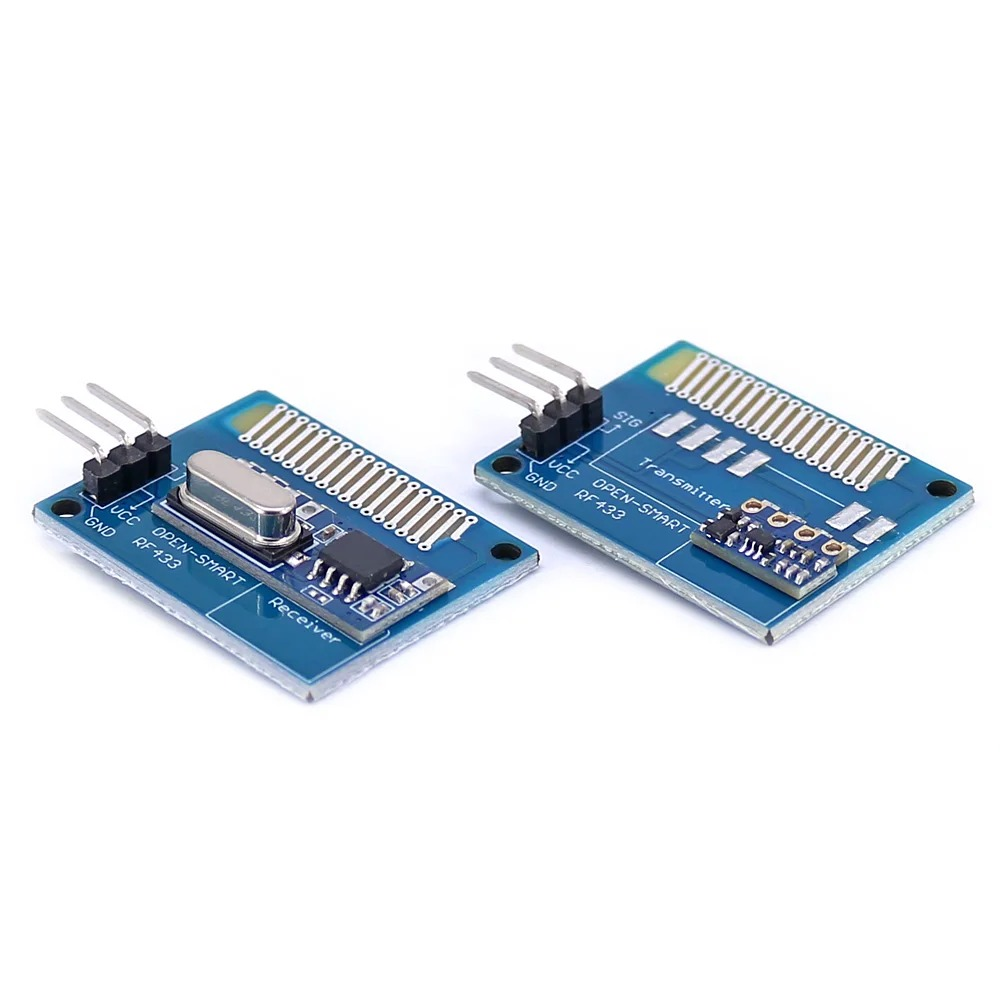
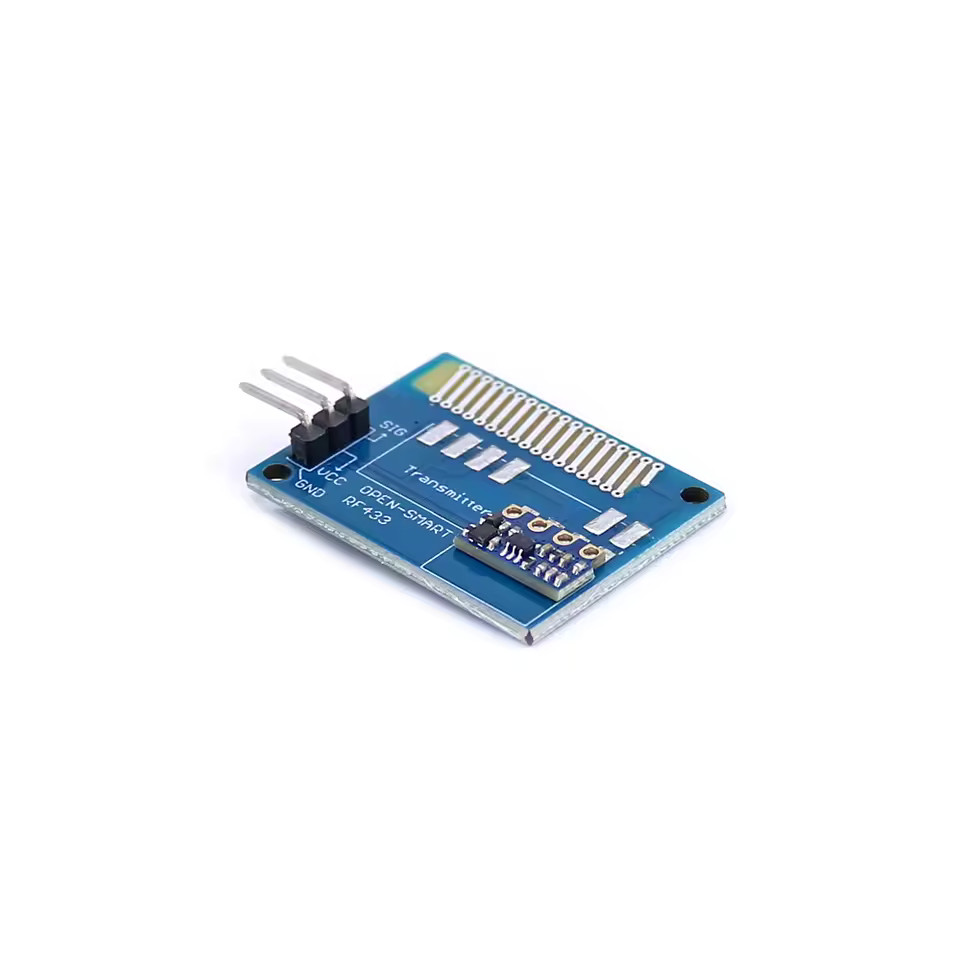
update hardware info to open-smart's transmitter only sku

Changed region(s): [[0.0312, 0.3438, 0.9688, 0.7188]]

diff --git a/docs/hardware/transmitter/index.md b/docs/hardware/transmitter/index.md
@@ -9,7 +9,4 @@ tags:
 
 Any 433 MHz transmitter that is compatible with ASK / OOK should work with OpenShock. Below are transmitters that have been tested to work.
 
-!!! warning "Ask for transmitters"
-    This vendor sells the transmitter and receiver **as a pair**. If you would like 2 transmitters instead. Ask the seller for **only transmitters**.
-
 - [Open Smart](../transmitter/china/open-smart.md)

diff --git a/docs/hardware/transmitter/china/open-smart.md b/docs/hardware/transmitter/china/open-smart.md
@@ -7,7 +7,7 @@ tags:
 
 # Open Smart 433MHz Transceiver Kit
 
-- [AliExpress](https://www.aliexpress.com/item/32820610184.html)
+- [AliExpress](https://www.aliexpress.us/item/3256807953643815)
 
 ## Specifications
 
